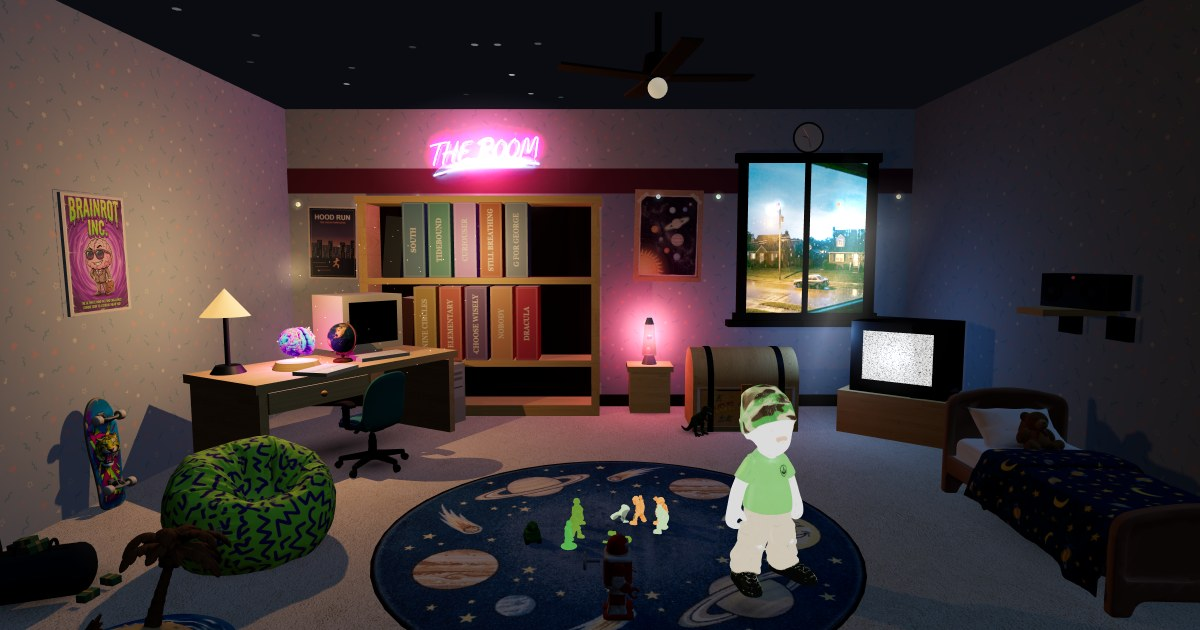
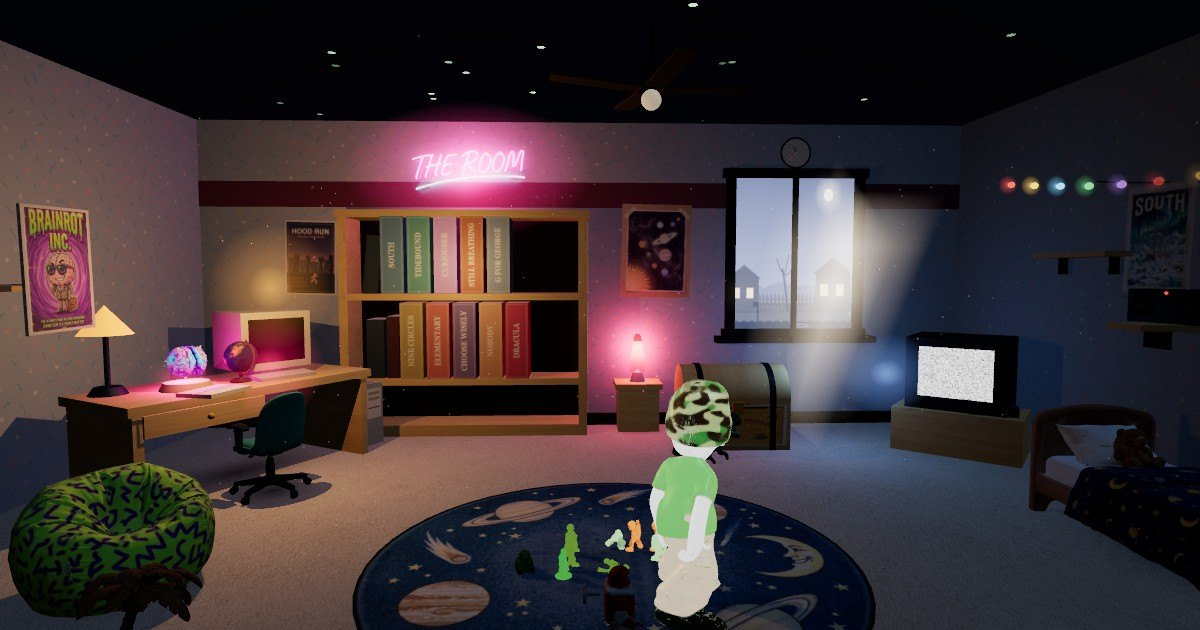
Pin every glow halo to the thing it belongs to, and re-shoot the share images
Kyle: "the one for the lamp is not over the lamp, it's over the computer, and
the one for the brain is under the computer."

The halos and their point lights are scene-level objects (so the decorator can
carry them when you drag furniture), and their positions were hand-authored.
Two problems: the desk is rotated 1.05 rad and the numbers had been written as
if it were square to the room — the lamp's halo was 0.60m from the lamp all
along — and widening the room moved the desk and TV out from under them.

Both fixed at the source: the halos and the lamp's bulb are now placed from the
WORLD position of the mesh they belong to (the shade, the brain, the CRT
screen), right before registerMovable snapshots the offsets it carries. Measured
after: lamp 0.60m -> 0.04m, CRT exact, and they stay locked through a drag.
DESK_X/TV_X constants now drive the desk, the TV, their lights, their obstacle
circles and the globe, and the string lights hang off WALL_IN.

Also re-shot media/room-hero.jpg (the entry card) and media/og-room.jpg (the
social unfurl) from the live room — both still showed the old cramped room with
no bloom, no painted window and no pets.

diff --git a/js/room.js b/js/room.js
@@ -268,6 +268,12 @@ var clickSfx = AUDIO.clickSfx, rumble = AUDIO.rumble, ratchetSfx = AUDIO.ratchet
   // it was widened to 8.6m. Anything mounted on a side wall reads from WALL_X — door,
   // switch, poster frames, garland, sticker bounds — so the next widening is one edit.
   var WALL_X = 4.3, WALL_IN = WALL_X - 0.05;
+  // ⚠ Where the two wall-side pieces of furniture stand. Their point lights and glow
+  // halos are SCENE-level (so the decorator can carry them), which means those halos
+  // are authored as offsets from these — get them out of step and the lamp's glow ends
+  // up hovering over the computer, which is exactly what happened when the room widened.
+  var DESK_X = -3.02, DESK_Z = -0.8;
+  var TV_X = 3.62, TV_Z = -1.35;
   var back = box(10.6, 3.4, 0.1, wallM); back.position.set(0, 1.7, -2.6); scene.add(back);
   var left = box(0.1, 3.4, 7, wallMSide); left.position.set(-WALL_X, 1.7, 0); scene.add(left);
   var right = box(0.1, 3.4, 7, wallMSide); right.position.set(WALL_X, 1.7, 0); scene.add(right);
@@ -726,12 +732,12 @@ var clickSfx = AUDIO.clickSfx, rumble = AUDIO.rumble, ratchetSfx = AUDIO.ratchet
   /* ---- lights ------------------------------------------------------------ */
   var amb = new THREE.AmbientLight(0x2c3440, 1.0); scene.add(amb);
   var moon = new THREE.DirectionalLight(0x7d9cc4, 0.4); moon.position.set(2.4, 3.5, 1.0); scene.add(moon);
-  var lampLight = new THREE.PointLight(0xffc27d, 1.5, 9, 1.5); lampLight.position.set(-2.4, 1.6, -0.2); lampLight.castShadow = true; scene.add(lampLight);
+  var lampLight = new THREE.PointLight(0xffc27d, 1.5, 9, 1.5); lampLight.position.set(DESK_X - 0.05, 1.6, DESK_Z + 0.6); lampLight.castShadow = true; scene.add(lampLight);
   // a point light shadows through a cube map — 6 faces, so phones keep the cheap one
   lampLight.shadow.mapSize.set(coarse ? 512 : 1024, coarse ? 512 : 1024);
   lampLight.shadow.bias = -0.004;   // kills the acne the default 0 leaves on the desk
   lampLight.shadow.radius = 2.5;
-  var crtLight = new THREE.PointLight(0x7db4ff, 0.7, 4, 2); crtLight.position.set(2.3, 1.0, -1.4); scene.add(crtLight);
+  var crtLight = new THREE.PointLight(0x7db4ff, 0.7, 4, 2); crtLight.position.set(TV_X - 0.7, 1.0, TV_Z - 0.05); scene.add(crtLight);
   var shelfGlow = new THREE.PointLight(0xffd9a0, 0.55, 5, 2); shelfGlow.position.set(-1.3, 1.8, -1.4); scene.add(shelfGlow);
   // Flat ambient lights every face identically, which is why unlit corners went dead.
   // A hemisphere carries part of that load instead: cool from the ceiling, warm bounced
@@ -1147,7 +1153,7 @@ var clickSfx = AUDIO.clickSfx, rumble = AUDIO.rumble, ratchetSfx = AUDIO.ratchet
   note.position.set(-0.42, 0.83, 0.42); note.rotation.y = 0.3; desk.add(note);
   clickable(note, "the notebook", showNotebook, "the notebook — what you have finished");
 
-  desk.position.set(-3.02, 0, -0.8); desk.rotation.y = 1.05; scene.add(desk);
+  desk.position.set(DESK_X, 0, DESK_Z); desk.rotation.y = 1.05; scene.add(desk);
 
   /* ---- THE TV: channel guide (list view) + VHS decor ------------------------ */
   var crt = new THREE.Group();
@@ -1162,7 +1168,7 @@ var clickSfx = AUDIO.clickSfx, rumble = AUDIO.rumble, ratchetSfx = AUDIO.ratchet
   vhs.position.set(0.28, 0.465, 0.12); vhs.rotation.y = 0.25; crt.add(vhs);
   function toListView() { document.body.classList.add("listing"); }
   [tv, screen, vhs, stand].forEach(function (m) { clickable(m, "the channel guide", toListView, "the TV — every channel we have (list view)"); });
-  crt.position.set(3.62, 0, -1.35); crt.rotation.y = -0.7; scene.add(crt);
+  crt.position.set(TV_X, 0, TV_Z); crt.rotation.y = -0.7; scene.add(crt);
 
   /* ---- glow stars on the ceiling (pure 90s, breathing) ---------------------- */
   var stars = [];
@@ -1277,13 +1283,13 @@ var clickSfx = AUDIO.clickSfx, rumble = AUDIO.rumble, ratchetSfx = AUDIO.ratchet
   /* ---- soft bloom halos on the bright sources (billboards, additive) ---------- */
   var gNeon = glow(0xff5aa8, -1.3, 2.86, -2.46, 2.7, 1.5, 0.5);  // the neon sign (recolorable)
   scene.add(gNeon);
-  var gBrain = glow(0xff4d7d, -2.52, 1.0, -0.38, 0.85, 0.85, 0.5); // the Brainrot brain (follows the desk)
+  var gBrain = glow(0xff4d7d, 0, 1.0, 0, 0.85, 0.85, 0.5); // the Brainrot brain — placed below
   scene.add(gBrain);
   gLava = glow(0xff5a7d, 0.55, 0.86, -2.16, 0.7, 0.95, 0.55);    // the lava lamp
   scene.add(gLava);
-  gLamp = glow(0xffb14d, -2.4, 1.62, -0.18, 0.95, 0.95, 0.4);    // the desk lamp
+  gLamp = glow(0xffb14d, 0, 1.62, 0, 0.95, 0.95, 0.4);    // the desk lamp — placed below
   scene.add(gLamp);
-  var gCrt = glow(0x8fb8ff, 2.7, 0.82, -0.98, 0.9, 0.72, 0.4);   // the CRT screen (follows the TV)
+  var gCrt = glow(0x8fb8ff, 0, 0.82, 0, 0.9, 0.72, 0.4);   // the CRT screen — placed below
   scene.add(gCrt);
 
   /* ---- the calendar has opinions ---------------------------------------------- */
@@ -1384,9 +1390,9 @@ var clickSfx = AUDIO.clickSfx, rumble = AUDIO.rumble, ratchetSfx = AUDIO.ratchet
     var by = 2.46 - sag;
     var bulb = new THREE.Mesh(new THREE.SphereGeometry(0.026, 10, 8),
       new THREE.MeshBasicMaterial({ color: bulbCols[li % 5], transparent: true, opacity: 0.9 }));
-    bulb.position.set(3.5, by, bz);
+    bulb.position.set(WALL_IN - 0.25, by, bz);
     bulb.userData.phase = li * 0.7;
-    var bglow = glow(bulbCols[li % 5], 3.47, by, bz, 0.16, 0.16, 0.5);
+    var bglow = glow(bulbCols[li % 5], WALL_IN - 0.28, by, bz, 0.16, 0.16, 0.5);
     bulb.userData.glow = bglow; scene.add(bglow); // little halo so each bulb reads as lit
     scene.add(bulb); bulbs.push(bulb);
   }
@@ -1867,7 +1873,7 @@ var clickSfx = AUDIO.clickSfx, rumble = AUDIO.rumble, ratchetSfx = AUDIO.ratchet
     wrap.rotateOnWorldAxis(new THREE.Vector3(0, 0, 1), 0.10); // top rests against the left wall (inner face x=-3.55)
     propTip("the skateboard", "the skateboard — one day, the driveway")(wrap);
   });
-  prop("assets/props/globe.glb", 0.36, -2.26, 0.815, -0.75, -0.3, function (wrap) { // desk-local (0, 0.10) — verified on the rotated slab
+  prop("assets/props/globe.glb", 0.36, DESK_X + 0.09, 0.815, DESK_Z + 0.05, -0.3, function (wrap) { // desk-local (0, 0.10) — verified on the rotated slab
     propTip("the globe", "the globe — somewhere better, probably")(wrap);
     var dcfg = movableByKey.desk; // the globe rides the desk if the desk has been moved
     if (dcfg) {
@@ -2293,10 +2299,10 @@ var clickSfx = AUDIO.clickSfx, rumble = AUDIO.rumble, ratchetSfx = AUDIO.ratchet
   var KID_OBSTACLES = [
     { x: 1.45, z: -1.85, r: 0.62 },  // the toy chest (left of the window, off the wall)
     { x: 3.59, z: 1.0, r: 0.82 },   // the bed
-    { x: -3.02, z: -0.8, r: 0.82 }, // the desk
+    { x: DESK_X, z: DESK_Z, r: 0.82 }, // the desk
     { x: -1.9, z: 2.45, r: 0.5 },    // the island
     { x: -2.62, z: 1.2, r: 0.42 },  // the beanbag
-    { x: 3.62, z: -1.35, r: 0.55 }, // the TV stand
+    { x: TV_X, z: TV_Z, r: 0.55 },  // the TV stand
     { x: -2.5, z: -0.32, r: 0.34 }, // the desk chair
     { x: -3.5, z: 1.75, r: 0.34 }   // the duffel bag + safe (index 7)
   ];
@@ -3094,6 +3100,20 @@ var clickSfx = AUDIO.clickSfx, rumble = AUDIO.rumble, ratchetSfx = AUDIO.ratchet
     KID_BED.upX = 3.28 + dx;
     KID_BED.x = 3.56 + dx; KID_BED.z = 0.88 + dz;
   } });
+  /* ⚠ Pin each halo to the thing it belongs to, from the REAL world position of that
+   * mesh. Hand-authored halo coordinates were 0.6m out — the desk is rotated 1.05 rad
+   * and the numbers had been written as if it were square to the room, so the lamp's
+   * glow sat over the computer and the brain's sat under it (Kyle's report). Deriving
+   * them means a rotation or a move can never desync them again. This must run BEFORE
+   * registerMovable, which snapshots the offsets it will carry when you drag. */
+  (function anchorHalos() {
+    scene.updateMatrixWorld(true);
+    var v = new THREE.Vector3();
+    shade.getWorldPosition(v);   gLamp.position.set(v.x, v.y + 0.04, v.z);
+    lampLight.position.set(v.x, v.y - 0.06, v.z); // the bulb is under the shade, not beside the desk
+    brainG.getWorldPosition(v);  gBrain.position.set(v.x, v.y + 0.98, v.z); // brainG's origin is the desktop
+    screen.getWorldPosition(v);  gCrt.position.set(v.x, v.y, v.z);
+  })();
   registerMovable({ key: "desk", label: "the desk", root: desk, r: 0.82, obs: 2, stations: [4],
     shadowR: 1.12, shadowRZ: 0.58, attachObjs: [lampLight, gLamp, gBrain] });
   registerMovable({ key: "tv", label: "the TV", root: crt, r: 0.55, rot: true, obs: 5, stations: [1],
